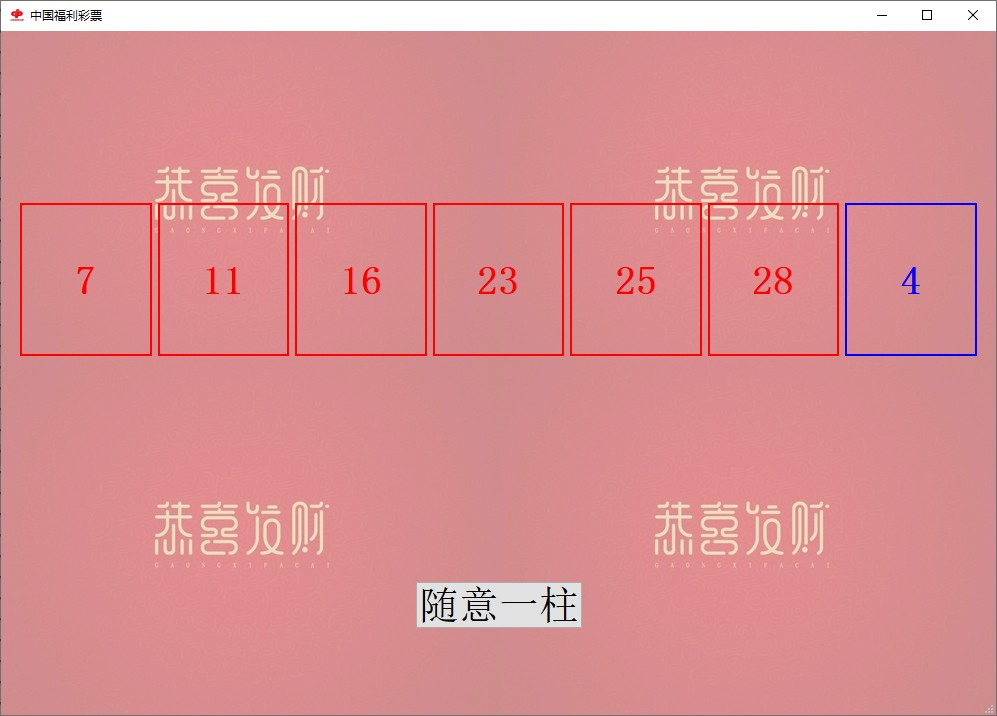
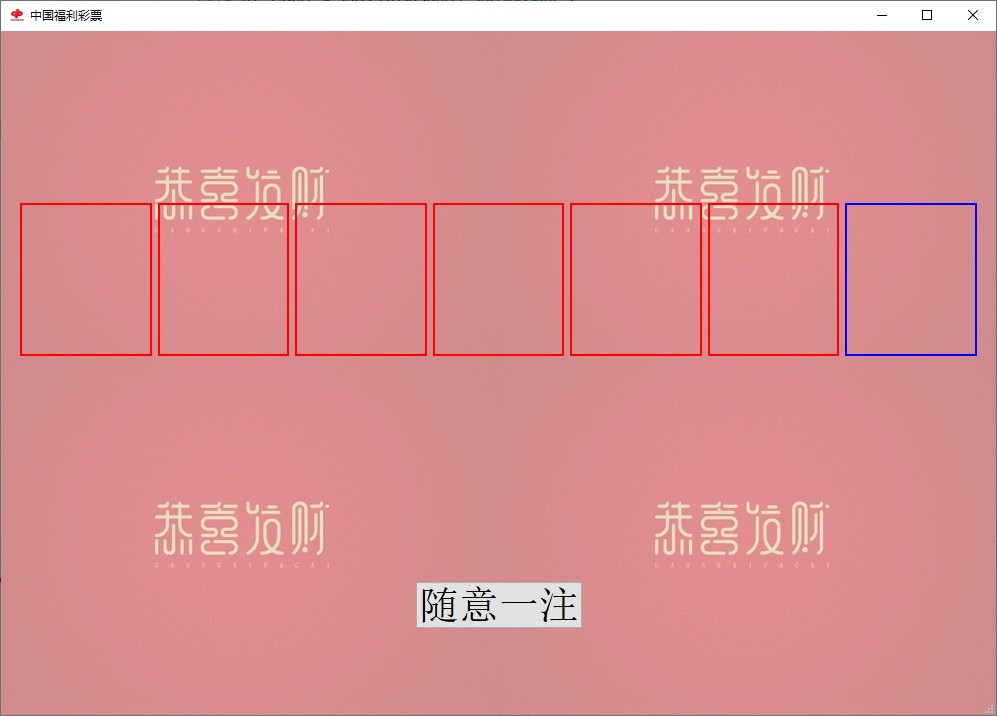
修改错别字：随意一柱--->随意一注

diff --git a/ui/ui_ui.py b/ui/ui_ui.py
@@ -162,4 +162,4 @@ class Ui_MainWindow(object):
     def retranslateUi(self, MainWindow):
         _translate = QtCore.QCoreApplication.translate
         MainWindow.setWindowTitle(_translate("MainWindow", "MainWindow"))
-        self.pushButton.setText(_translate("MainWindow", "随意一柱"))
+        self.pushButton.setText(_translate("MainWindow", "随意一注"))
